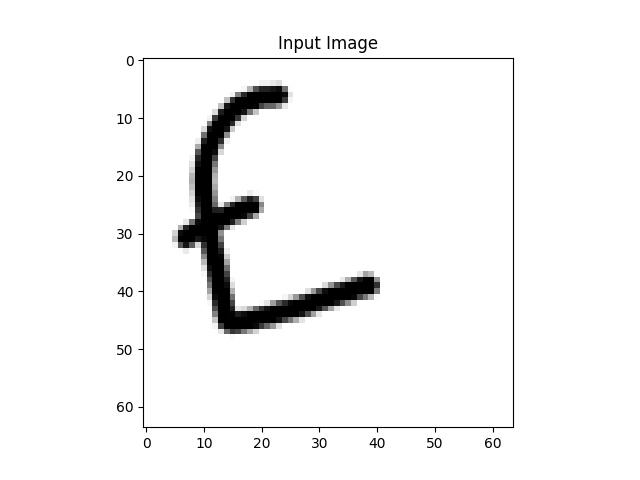
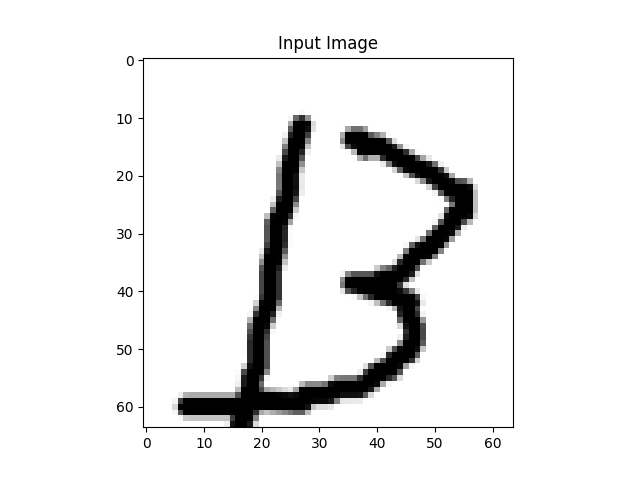
updated model

Changed region(s): [[0.25, 0.1562, 0.75, 0.9062]]

diff --git a/app.py b/app.py
@@ -7,12 +7,19 @@ from tensorflow.keras.preprocessing import image
 import matplotlib
 matplotlib.use('Agg')
 import matplotlib.pyplot as plt
+from google import genai
 
-
+img_height=64
+img_width=64
 
 app = Flask(__name__)
 
 model = tf.keras.models.load_model("letter_model.h5")
+f=open('details.txt')
+text=f.read()
+f.close()
+print(text)
+client = genai.Client(api_key="AIzaSyBT0alA9j4koF6ihAplZLLrCxryYfUTo4A")
 
 
 try:
@@ -27,7 +34,10 @@ def predict():
     print("RECEIVED REQUEST!!")
     file = request.files["file"]
     img = Image.open(file.stream).convert("RGB")  
-    img = img.resize((64, 64))
+    img = img.resize((img_height
+
+, img_width
+))
     img_array = image.img_to_array(img)
     img_array = tf.expand_dims(img_array, 0)
     plt.imshow(img)
@@ -41,9 +51,17 @@ def predict():
 
     confidence = np.max(predictions)
     print(f"Predicted Letter: {predicted_class} with confidence {confidence:.2f}")
-
+    prompt = (
+        "You will be our handwriting identifier you will detect which letter is shown in the image and it should only be 1 letter(only english letters if you see something else put -) answer from you for example if the image shows A then you will say A_caps if its a then you will say a"
+    )
+    response = client.models.generate_content(
+        model="gemini-2.5-flash",
+        contents=[prompt, img]
+    )
+    gemini_analysis = response.text
+    print('GEMINI RESPONSE',gemini_analysis)
 
     return {"prediction": predicted_class}
 
 if __name__ == "__main__":
-    app.run(host='192.168.1.2', port=5000)
+    app.run(host='192.168.1.3', port=5000)
